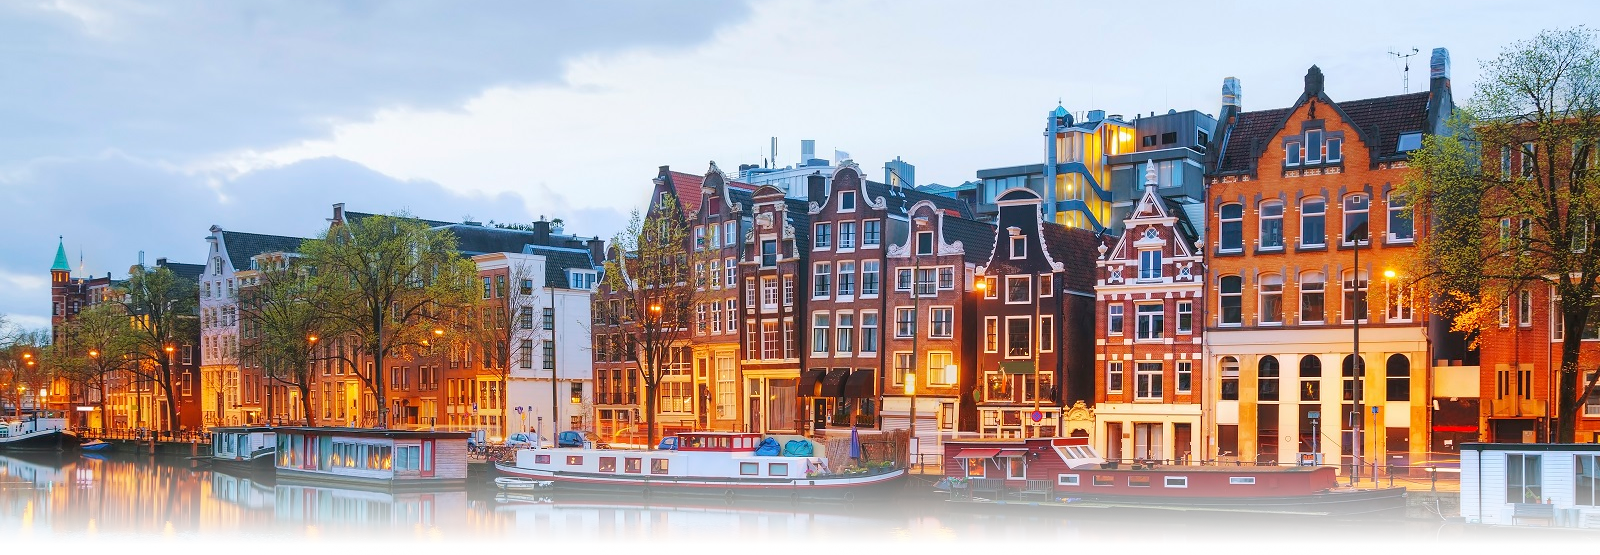
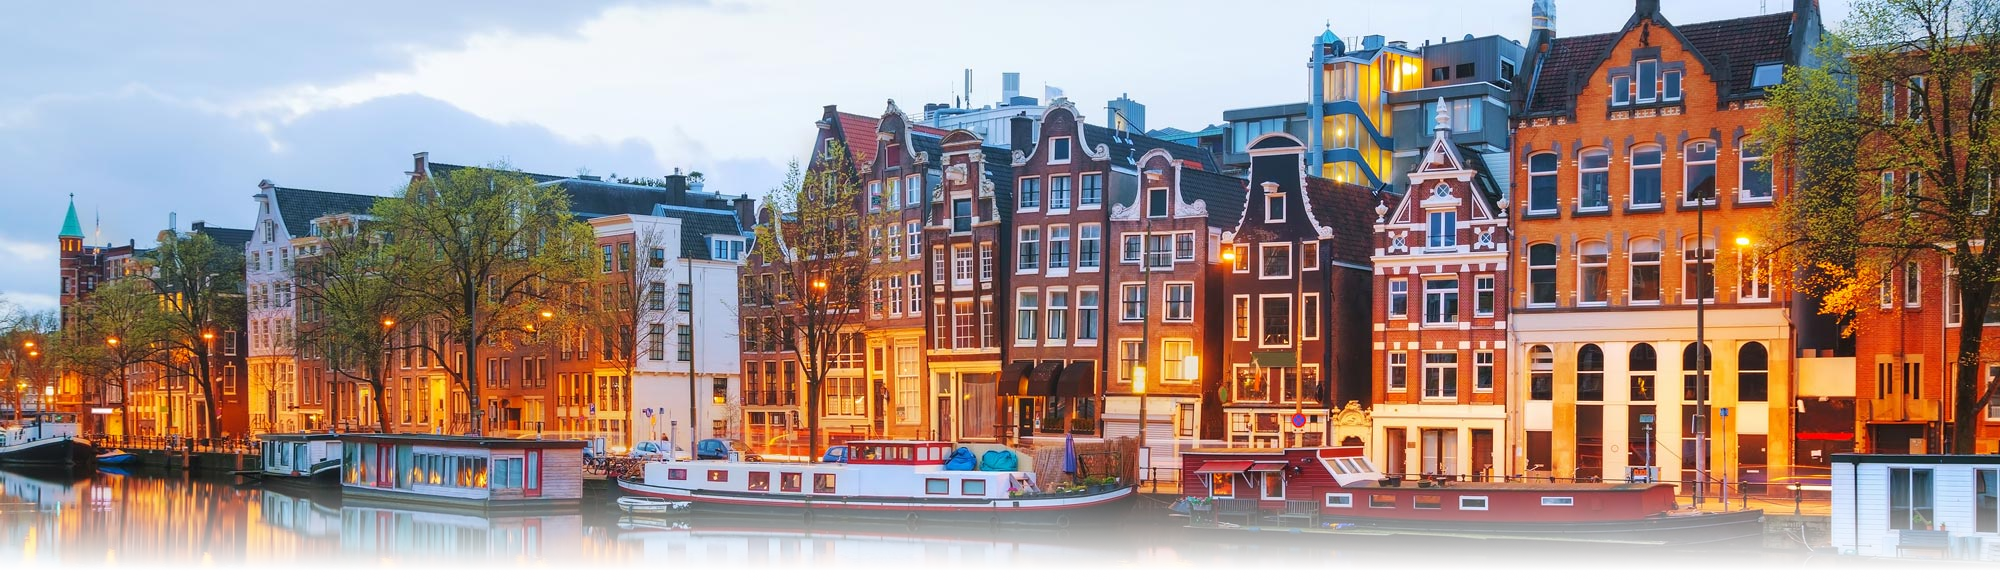
updated header image

diff --git a/site/layouts/index.html b/site/layouts/index.html
@@ -1,9 +1,6 @@
 {{ define "main" }}
-<img class="background" src="../img/background.webp" alt="">
-
+    <img class="background" src="../img/background.webp" alt="">
     <main>
-
-
         <header>
             <h1>
                 👋<br/>
@@ -11,7 +8,6 @@
             </h1>
             <img src="{{ .Site.Author.avatar }}" alt="">
         </header>
-
         <section class="info-card">
             <h2>{{ .Site.Author.title }}</h2>
             <div class="links">

diff --git a/site/assets/scss/main.scss b/site/assets/scss/main.scss
@@ -16,7 +16,7 @@ html, body {
   right: 0;
 
   height: 50vh;
-  max-height: 300px;
+  max-height: 220px;
   object-fit: cover;
 
   width: inherit;
@@ -33,10 +33,10 @@ html, body {
 main {
   width: inherit;
 
-  padding-top: 210px;
+  padding-top: 30vw;
 
-  @media (min-width: $information-xl) {
-    padding-top: 25vw;
+  @media (min-width: $information-sm) {
+    padding-top: 20vw;
   }
 
   header {
